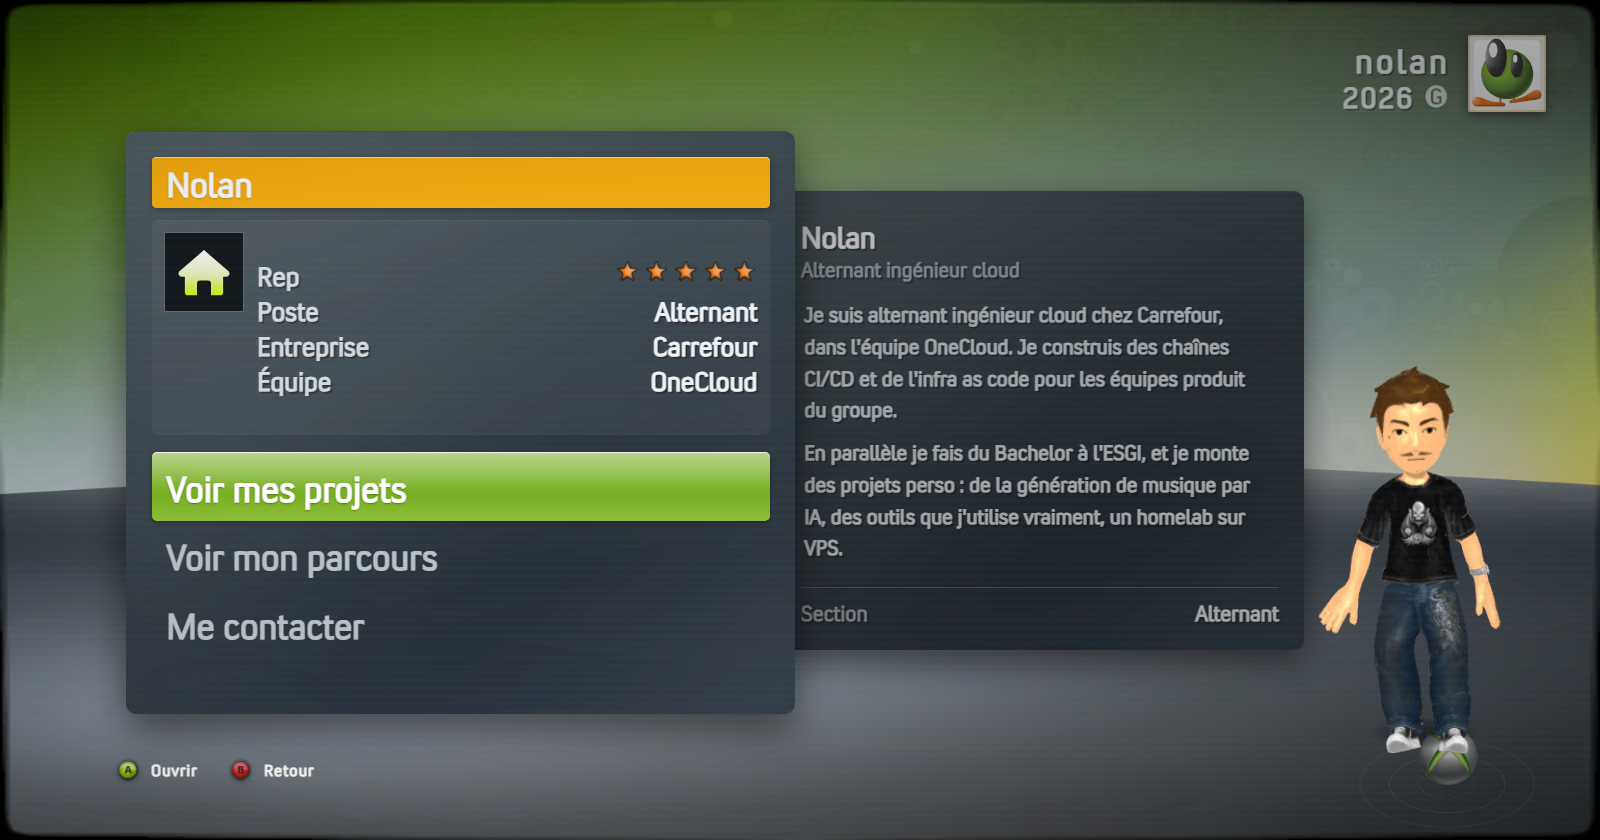
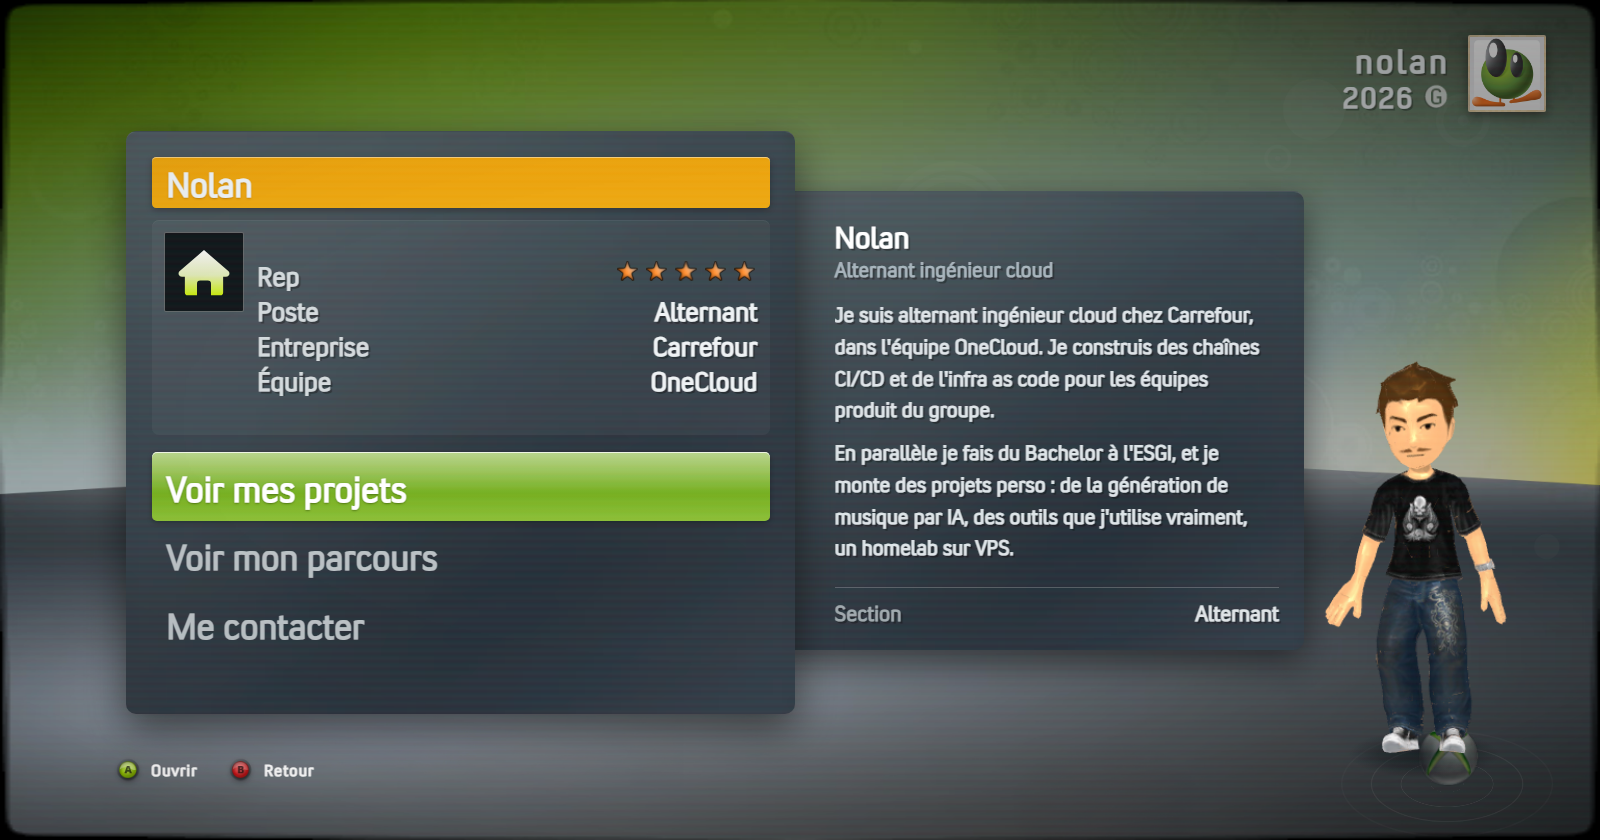
Retire l'éclaircissement du détail, élargit sa marge, supprime le dernier flash
- Le panneau de détail ne s'éclaircit plus quand il prend la main. La classe
  `is-active` reste : c'est elle qui dit quelle colonne reçoit les flèches, et
  le liseré de focus du corps suffit à le signaler.
- Marge du détail : il commence 19 px derrière la lame de gauche (chevauchement
  voulu), donc ses 3 vh de marge interne étaient mangés aux deux tiers et il ne
  restait que 10 px visibles avant le texte. Porté à 7 vh -> 40 px visibles,
  comme sur image8. Le corps perd son retrait de 0.4 vh pour s'aligner sur le
  titre.
- Le changement de section utilise le coulissement, comme le retour d'une
  lame : le dépilement fait apparaître les cartes en fondu et laisse le fond nu
  pendant le décalage — même flash. Mesuré, pic ramené à +0.1. Le dépilement
  est désormais réservé à la première arrivée depuis l'écran d'accueil, dont la
  fenêtre passe de 560 à 1200 ms pour qu'il aille au bout.

Tests : 62 assertions, 0 échec sur cinq passages.

diff --git a/src/styles/blade.css b/src/styles/blade.css
@@ -67,6 +67,12 @@
   display: flex;
   /* Derrière la lame de devant (2) mais DEVANT le voile (0). */
   z-index: 1;
+  /* Le panneau commence 19 px DERRIÈRE la lame de gauche (relevé : bord gauche
+     à 776, bord droit de la lame à 795). Sa marge interne de 3 vh était donc
+     mangée aux deux tiers et il ne restait que 10 px visibles entre le bord de
+     la lame et le texte — d'où l'impression de texte collé. 7 vh rétablit une
+     quarantaine de pixels visibles, comme sur image8. */
+  padding-left: 7vh;
   /* `filter` sur un panneau ré-rastérise tout son sous-arbre : la nuance plus
      sombre du panneau arrière est un fond, pas un filtre. Mesuré #282f36
      contre #2d353d pour la lame de devant. */
@@ -270,7 +276,10 @@
 
 .blade-body {
   margin-top: 2vh;
-  padding: 0 0.4vh;
+  /* Aucun retrait horizontal : le corps doit s'aligner exactement sur le titre
+     et le sous-titre, qui n'en ont pas. 0.4 vh suffisait à créer un décalage
+     de 3 px, visible sur une colonne de texte. */
+  padding: 0;
   /* Dernier recours quand le texte dépasse : il défile, il ne disparaît pas.
      `min-height: 0` est indispensable — sans lui un enfant flex refuse de
      rétrécir sous sa hauteur de contenu et l'`overflow` ne sert à rien. */
@@ -425,33 +434,11 @@
   margin-top: 0.2vh;
 }
 
-/* ── Panneau de détail actif ─────────────────────────────────────────────
-   Flèche droite ou clic : le panneau prend la main, s'éclaircit et se laisse
-   défiler aux flèches. Cet état n'est pas dans les références — elles ne
-   montrent qu'une pose figée — mais sans lui le détail restait sombre et peu
-   lisible, et rien n'indiquait qu'on pouvait le parcourir. */
-.blade.is-secondary {
-  transition:
-    background-color 160ms ease-out,
-    box-shadow 160ms ease-out;
-}
-
-.blade.is-secondary.is-active {
-  background-color: #414c58;
-  box-shadow:
-    0 1.4vh 4vh rgba(0, 0, 0, 0.5),
-    inset 0 0 0 1px rgba(255, 255, 255, 0.16);
-}
-
-.blade.is-secondary.is-active .blade-heading,
-.blade.is-secondary.is-active .blade-body p {
-  color: #ffffff;
-}
-
-.blade.is-secondary.is-active .blade-sub,
-.blade.is-secondary.is-active .blade-foot {
-  color: #cbd4da;
-}
+/* ── Panneau de détail : quelle colonne a la main ─────────────────────────
+   Flèche droite ou clic : le panneau reçoit les flèches et se laisse défiler.
+   `is-active` ne porte AUCUN changement d'apparence — il s'éclaircissait, ce
+   n'était pas voulu. La classe reste : elle dit quelle colonne a la main, et
+   le liseré de focus du corps suffit à le signaler. */
 
 /* Barre de défilement : visible dès que le texte dépasse, et pas seulement au
    survol — c'est le seul indice qu'il reste quelque chose à lire. */
@@ -468,6 +455,3 @@
   background: rgba(255, 255, 255, 0.38);
 }
 
-.blade.is-secondary.is-active .blade-body::-webkit-scrollbar-thumb {
-  background: rgba(255, 255, 255, 0.6);
-}

diff --git a/src/App.tsx b/src/App.tsx
@@ -44,22 +44,6 @@ export default function App() {
     void installSceneAssets()
   }, [])
 
-  /* Rejoue la mise en scène d'entrée des cartes. Elle ne servait qu'à l'arrivée
-     depuis l'écran d'accueil ; on la rejoue aussi à chaque changement de
-     section et à la fermeture d'une lame, où la rangée réapparaît. */
-  const entreeTimer = useRef(0)
-  const rejouerEntree = useCallback(() => {
-    setEntering(false)
-    window.clearTimeout(entreeTimer.current)
-    /* Un cadre d'arrêt avant de remettre la classe : sans ça React regroupe les
-       deux mises à jour, la classe n'est jamais retirée du DOM et l'animation
-       ne redémarre pas. */
-    requestAnimationFrame(() => {
-      setEntering(true)
-      entreeTimer.current = window.setTimeout(() => setEntering(false), 1200)
-    })
-  }, [])
-
   /* Retour depuis une lame : simple coulissement, pas de dépilement. Les cartes
      n'ont jamais bougé, les faire repartir du paquet n'aurait aucun sens. */
   const retourTimer = useRef(0)
@@ -91,12 +75,16 @@ export default function App() {
         if (next !== cur) {
           play('section')
           setTileIdx(0)
-          rejouerEntree()
+          /* Coulissement, pas dépilement : le dépilement fait apparaître les
+             cartes en fondu, et pendant le décalage le fond reste nu — même
+             flash qu'au retour d'une lame. Le dépilement est réservé à la
+             toute première arrivée depuis l'écran d'accueil. */
+          rejouerRetour()
         }
         return next
       })
     },
-    [play, rejouerEntree],
+    [play, rejouerRetour],
   )
 
   const open = useCallback(
@@ -282,7 +270,9 @@ export default function App() {
             unlock()
             setBooted(true)
             setEntering(true)
-            window.setTimeout(() => setEntering(false), 560)
+            /* 1200 ms : le dépilement dure 640 ms plus 165 par carte. À 560 la
+               classe tombait avant la fin et les dernières cartes sautaient. */
+            window.setTimeout(() => setEntering(false), 1200)
           }}
         />
         <CrtSoftness />

diff --git a/SPEC.md b/SPEC.md
@@ -426,21 +426,39 @@ disparaît en une image, et les cartes mettaient 220 ms à réapparaître : le f
 clair restait nu entre les deux. La rangée revient donc d'un coup et ne
 s'efface en fondu qu'à l'aller. Pic ramené à **+0.1**.
 
+Le changement de section a exactement le même problème, pour la même raison :
+les cartes du dépilement apparaissent en fondu, donc pendant le décalage le
+fond reste nu. Il utilise donc lui aussi le coulissement. **Le dépilement est
+réservé à la toute première arrivée depuis l'écran d'accueil.**
+
 Le retour utilise aussi une animation distincte : les cartes **coulissent**
 (`is-returning`) au lieu de se dépiler. Le dépilement fait partir toutes les
 cartes de la position de la première, donc on voyait la grande carte de gauche
 pendant toute l'animation — ce qui n'a aucun sens au retour, puisqu'elles n'ont
 jamais quitté leur place.
 
+### 5 septies. Marge du panneau de détail
+
+Le panneau commence **19 px derrière la lame de gauche** (bord gauche à 776,
+bord droit de la lame à 795) : c'est voulu, elles se chevauchent comme sur
+image5. Mais sa marge interne de 3 vh était donc mangée aux deux tiers, et il ne
+restait que **10 px visibles** entre le bord de la lame et le texte.
+
+Corrigé par la marge interne (7 vh) plutôt qu'en déplaçant le panneau, qui
+viendrait buter sur l'avatar : 40 px visibles, comme sur image8. Le corps de
+texte a perdu son retrait de 0.4 vh pour s'aligner exactement sur le titre —
+3 px, mais visibles sur une colonne de texte.
+
 ### 5 quater. La colonne de détail prend la main
 
-Flèche droite ou clic : le panneau de détail s'éclaircit (#2d353d → #414c58),
-son texte passe au blanc et il reçoit le focus, ce qui suffit à le faire défiler
-aux flèches nativement. Flèche gauche pour rendre la main à la liste.
+Flèche droite ou clic : le panneau de détail reçoit le focus, ce qui suffit à
+le faire défiler aux flèches nativement. Flèche gauche pour rendre la main à la
+liste.
 
-**Cet état n'est pas dans les références** — elles ne montrent que des poses
-figées. Il répond à un vrai problème d'usage : le détail restait sombre, peu
-lisible, et rien n'indiquait qu'on pouvait le parcourir.
+Il s'éclaircissait aussi (#2d353d → #414c58, texte au blanc) : retiré, ce
+n'était pas voulu. La classe `is-active` reste — c'est elle qui dit quelle
+colonne reçoit les flèches — mais elle ne porte plus aucune apparence, et le
+liseré de focus du corps suffit à le signaler.
 
 L'anneau de focus global (vert + halo) formait ici une grosse boîte au milieu
 du texte. Comme c'est le panneau entier qui signale qu'il a la main,
